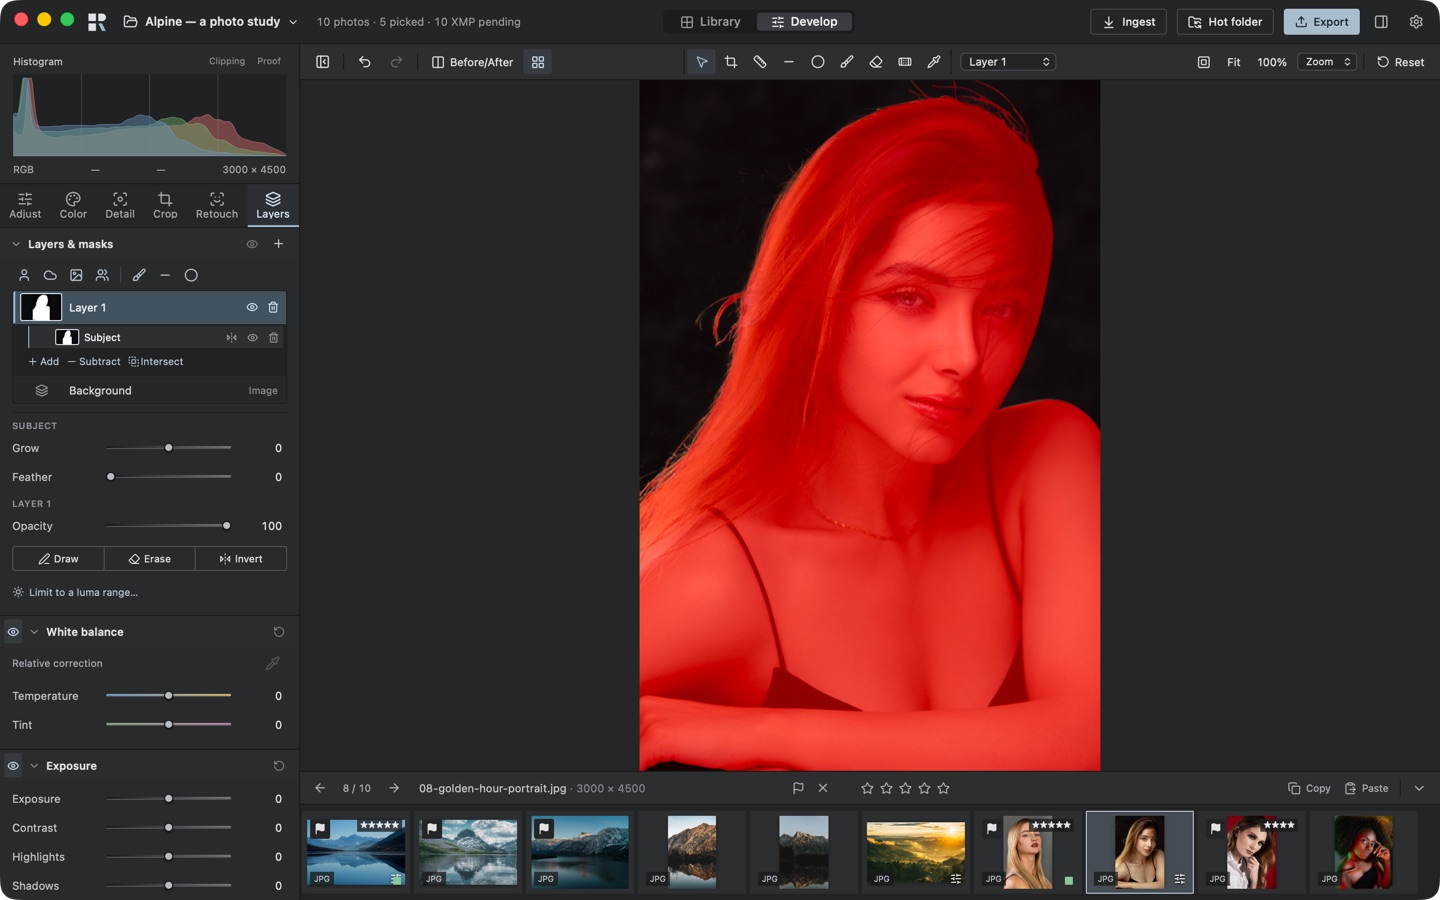
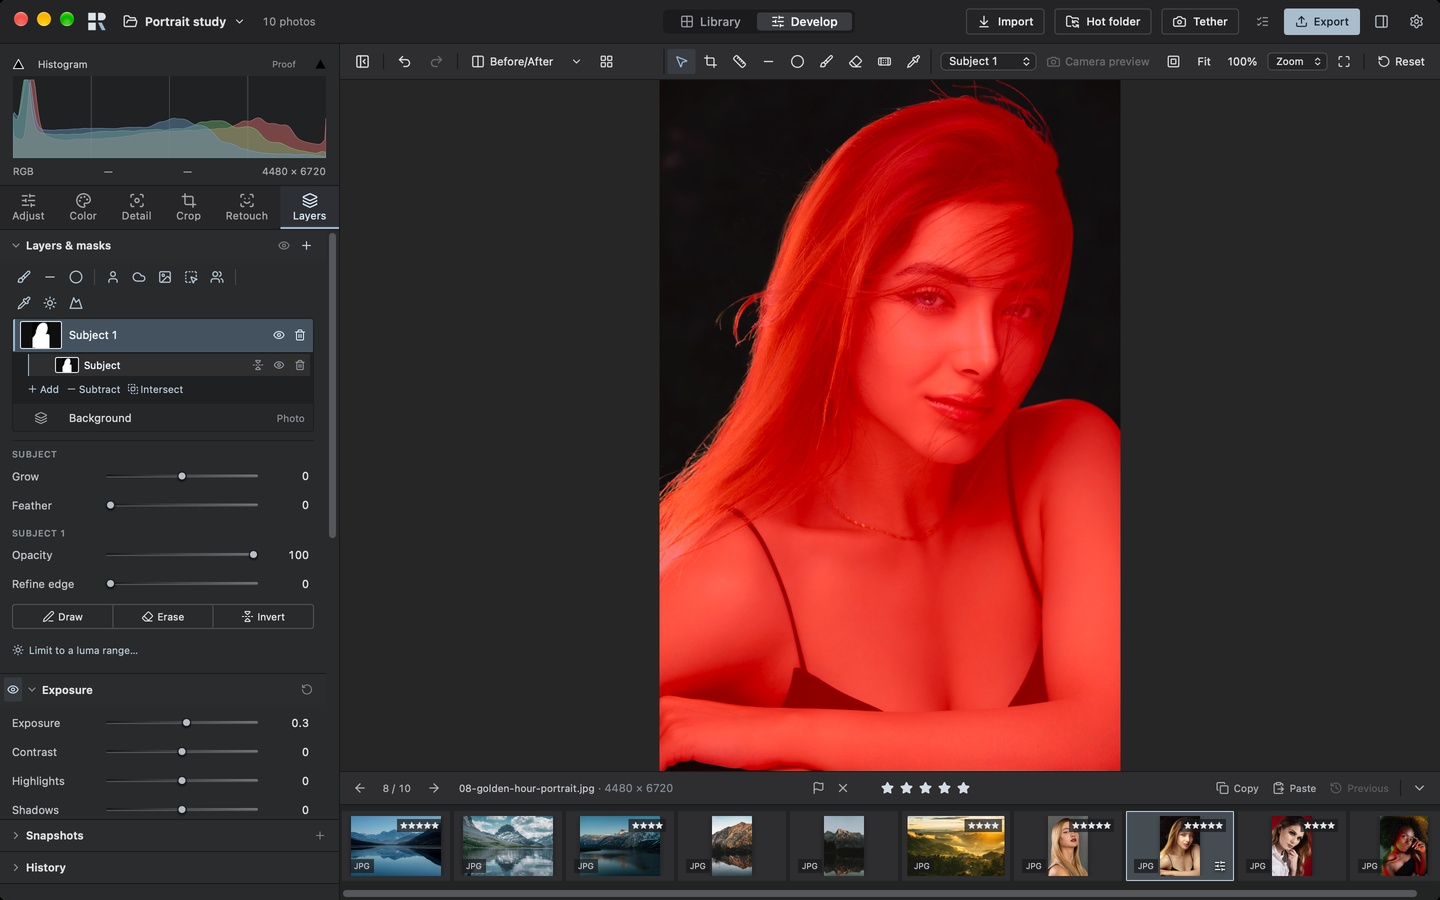
docs(readme): new screenshots of the current app and a docked-filmstrip image
Recapture every README image on 0.1.0-alpha.16 + main dbd2b4eb (QA build,
genuine window captures): develop, library, colour, masks, multi view,
relight, retouch and export, plus a new Develop capture with the filmstrip
docked beside the photo. CREDITS.md names the capture date, build and
photographs; alt texts follow the new content. README adds Capture One layer
import, Lightroom Point Color and Guided Upright import (#855, #856, #860,
#863), per-layer Color editor ranges and Empty Trash to the computer's
Trash (#845).

Changelog: none

diff --git a/README.md b/README.md
@@ -28,7 +28,7 @@
 
 <p align="center">
   <a href="docs/images/readme-develop.jpg">
-    <img src="docs/images/readme-develop.jpg" alt="Rawtonic Develop: a Dolomites landscape in the workspace, with layers, tone controls, histogram and filmstrip" width="860">
+    <img src="docs/images/readme-develop.jpg" alt="Rawtonic Develop: a Dolomites landscape with sky and foreground layers, white balance and exposure controls, histogram and filmstrip" width="860">
   </a>
 </p>
 
@@ -110,14 +110,14 @@ Start a **project** for a portrait sitting, a wedding or a product shoot. **Inge
 
 Use a **catalog** for a growing photo collection. Imports copy into its own `Photos/year/date` folders by default; you can also keep photos in their existing folders. Albums organize photographs without moving them. Moved, renamed, added or deleted files outside Rawtonic? **Synchronize Folder** finds the changes, follows moved photos with their edits and lets you review everything before it is applied. The library menu can create a **portable copy** for another computer, make a **full verified backup**, or **restore a backup** into a new folder—including external originals and required edit resources.
 
-**Session Folders…** sets where a project's captures, selects and exports go, inside the project or on another drive. **Find Duplicates** lists photos whose files hold identical image data, even under other names, and moves only the ones you mark to the Trash; visually similar photos are not found. **Export as Catalog…** takes a job to another computer, and **Import from Catalog…** brings the edits made there back, with a review first and one Undo step.
+**Session Folders…** sets where a project's captures, selects and exports go, inside the project or on another drive. **Find Duplicates** lists photos whose files hold identical image data, even under other names, and moves only the ones you mark to the Trash; visually similar photos are not found. **Empty Trash** on a session's or catalog's Trash folder moves its contents to the computer's Trash, with Undo; deleting permanently is a separate, explicit step. **Export as Catalog…** takes a job to another computer, and **Import from Catalog…** brings the edits made there back, with a review first and one Undo step.
 
-Already have a Lightroom Classic catalog or a Capture One session or catalog? Rawtonic can import it, with ratings, labels, keywords, albums, smart collections, virtual copies, snapshots, stacks (Lightroom) and translated edits.
+Already have a Lightroom Classic catalog or a Capture One session or catalog? Rawtonic can import it, with ratings, labels, keywords, albums, smart collections, virtual copies, snapshots, stacks (Lightroom) and translated edits. Capture One's local adjustment layers come along: gradients, filled masks and Luma Ranges as editable masks, brush, colour range and AI masks as fixed bitmaps. Lightroom catalog imports keep Point Color (also on masks) and Guided Upright with its guide lines.
 
 ### 2 · Find the keepers
 
 <p align="center">
-  <a href="docs/images/readme-library.jpg"><img src="docs/images/readme-library.jpg" alt="Library workspace filtered by a Sony camera search, with landscapes, cats, ratings and picks" width="860"></a>
+  <a href="docs/images/readme-library.jpg"><img src="docs/images/readme-library.jpg" alt="Library workspace showing the album Best of the year filtered by a Sony camera search: landscapes and cats with ratings and picks" width="860"></a>
 </p>
 
 The **Library** shows the whole shoot. Rate with 1–5, pick and reject with P and X, add colour labels, then filter down to the frames that matter. Press E or Space to see a photograph large in the **loupe**, with its keywords and metadata beside it; G goes back to the grid. A double-click (or D) opens it in Develop. Stepping through a series shows the next photo at once, from its camera JPEG. **Stacks** group a burst or bracket under one top photo (⌘/Ctrl+G; S collapses), and **Auto-Stack** builds them from the camera's burst and bracket data or from the time between shots. **Check eyes…** suggests which faces have closed eyes; it only suggests, and nothing is rated or rejected for you. Group keepers into albums and add keywords, captions and copyright while you are at it. Everything is written to standard XMP sidecars, so other software sees your ratings too.
@@ -126,6 +126,11 @@ The **Library** shows the whole shoot. Rate with 1–5, pick and reject with P a
 
 The **Develop** room gives the photograph the space: a filmstrip (under the photo, or docked beside it as a vertical grid with its own quick filter), a histogram and compact tool tabs. Work from the overall light and colour down to the details, compare with **Before/After** (Y), line up a series side by side in the **multi view** (N) and edit them all at once, see the photograph alone in **full screen** (F, also from the Library; I shows its facts), step back through **History** (⌥/Alt-click a tool group's name resets that group), copy settings across a series and save your own presets. Drag a slider to explore, move the pointer away from it while dragging for a finer drag, step it with the arrow keys, or type a number to be exact. A **second window** (Window ▸ Second Window, ⇧F) shows the photo live on another display, with its own zoom and a lock that keeps one photo while you move on. The **Profile** browser shows the open photo with every camera profile and look; hover to preview, click to apply. **Match Light** gives a series the exposure and white balance that make it look lit like a reference photo. **Develop defaults** set what unedited photos start with — globally, per camera model or per single camera body — and Reset goes back to them.
 
+<p align="center">
+  <a href="docs/images/readme-filmstrip.jpg"><img src="docs/images/readme-filmstrip.jpg" alt="Develop with the filmstrip docked to the right of the photo as a two-column grid with its quick filter, a cat photograph open" width="860"></a>
+  <br><sub>The filmstrip docked beside the photo (View ▸ Panels): a vertical grid with its own quick filter, leaving the photo the full height.</sub>
+</p>
+
 <table>
 <tr>
 <td width="50%" valign="top">
@@ -133,18 +138,18 @@ The **Develop** room gives the photograph the space: a filmstrip (under the phot
 <br><b>Colour.</b> White balance from the RAW, a colour editor, colour grading for shadows, midtones and highlights, black-and-white mixing and your own camera profiles or LUTs.
 </td>
 <td width="50%" valign="top">
-<a href="docs/images/readme-masks.jpg"><img src="docs/images/readme-masks.jpg" alt="A subject mask on a portrait shown as a red overlay, loose hair strands included"></a>
-<br><b>Local adjustments.</b> Brush, linear and radial masks, colour and luminance ranges, and one-click masks for the subject, sky, background, depth or people.
+<a href="docs/images/readme-masks.jpg"><img src="docs/images/readme-masks.jpg" alt="A one-click subject mask on a portrait shown as a red overlay, loose hair strands included"></a>
+<br><b>Local adjustments.</b> Brush, linear and radial masks, colour and luminance ranges, and one-click masks for the subject, sky, background, depth or people. Each layer can also hold its own Color editor ranges.
 </td>
 </tr>
 <tr>
 <td width="50%" valign="top">
-<a href="docs/images/readme-multiview.jpg"><img src="docs/images/readme-multiview.jpg" alt="Multi view: eleven photographs (landscapes, cats and a still life), with Edit all selected enabled"></a>
+<a href="docs/images/readme-multiview.jpg"><img src="docs/images/readme-multiview.jpg" alt="Multi view: eleven photographs (landscapes, cats and a still life) with orange frames, Edit all selected enabled"></a>
 <br><b>Multi view.</b> Compare up to twelve selected photographs side by side, with a reference photo and a locked zoom, and edit them all at once.
 </td>
 <td width="50%" valign="top">
-<a href="docs/images/readme-relight.jpg"><img src="docs/images/readme-relight.jpg" alt="Relight in a before/after split: left the portrait's original warm light, right a new cool light from the other side"></a>
-<br><b>Relight</b> <i>(experimental)</i>. Light a photograph again after the shoot. Before/after split: on the left the original warm light, on the right a new cool light from the other side with the original turned down.
+<a href="docs/images/readme-relight.jpg"><img src="docs/images/readme-relight.jpg" alt="Relight in a before/after split: left the portrait's original light, right the Side light pattern added from the right, its light guide on the face"></a>
+<br><b>Relight</b> <i>(experimental)</i>. Light a photograph again after the shoot. Before/after split: on the left the original light, on the right a side light added from the right with one click on a light pattern.
 </td>
 </tr>
 </table>

diff --git a/docs/images/CREDITS.md b/docs/images/CREDITS.md
@@ -2,9 +2,11 @@
 
 The README images are genuine window captures of Rawtonic on macOS. Their photographic content has separate licenses from the repository’s software. The photographers do not endorse Rawtonic.
 
-## Alpha.7 captures — pixls.us PlayRaw
+## November 17, 2026 captures — pixls.us PlayRaw
 
-`readme-develop.jpg`, `readme-library.jpg`, `readme-color.jpg` and `readme-multiview.jpg` are unchanged copies of `shot-develop.jpg`, `shot-library.jpg`, `shot-grading.jpg` and `shot-multiview.jpg` from the [website](https://github.com/rawtonic-app/website/tree/929d473/site/assets), captured on October 26, 2026 with 0.1.0-alpha.7. The photographs were developed in Rawtonic; the website captures were cropped and scaled, with nothing painted or retouched afterwards. These four screenshots are adaptations shared under [CC BY-SA 4.0](https://creativecommons.org/licenses/by-sa/4.0/), as documented in the [website credits](https://github.com/rawtonic-app/website/blob/929d473/CREDITS.md). Their photographs, including filmstrip thumbnails, are credited below; display filenames are chosen for the demo. The source RAW files are not included.
+`readme-develop.jpg`, `readme-library.jpg`, `readme-color.jpg`, `readme-multiview.jpg` and `readme-filmstrip.jpg` were captured on November 17, 2026 with 0.1.0-alpha.16 plus the changes merged up to commit `dbd2b4eb` (a QA build of `main`), in a copy of the demo session used for the alpha.7 website captures. They are window captures made by the app itself at 2880 × 1800 backing pixels, cropped where noted and scaled to 1440 pixels wide, with nothing painted or retouched afterwards: `readme-library.jpg` is the top quarter of the window, `readme-color.jpg` a band through the Color grading panel and the photo, `readme-multiview.jpg` the window below its title bar with the side panels and filmstrip hidden. The photographs were developed in Rawtonic (the demo session's edits, unchanged); the filmstrip and multi view show only the eleven photographs of the session's album "Best of the year", listed below. These screenshots are adaptations shared under [CC BY-SA 4.0](https://creativecommons.org/licenses/by-sa/4.0/). Their photographs, including filmstrip thumbnails, are credited below; display filenames are chosen for the demo. The source RAW files are not included.
+
+`readme-develop.jpg` shows Dolomites_sunset.ARW, `readme-library.jpg` the four Sony photographs (Cat_in_the_brush, Dolomites_sunset, Kitten_in_plants, Mt_Cook), `readme-color.jpg` Chania_lighthouse.CR2, `readme-filmstrip.jpg` Cat_in_the_brush.ARW with the filmstrip docked on the right, and `readme-multiview.jpg` all eleven.
 
 | Name in the demo | Photographer (forum name) | Source | License as stated in the post |
 | :-- | :-- | :-- | :-- |
@@ -20,9 +22,9 @@ The README images are genuine window captures of Rawtonic on macOS. Their photog
 | Tea_time.RAF | Daniel (DanielLikesDT) | [Raw Tea Time Image](https://discuss.pixls.us/t/raw-tea-time-image/55066) | [CC BY-SA 4.0](https://creativecommons.org/licenses/by-sa/4.0/) |
 | Windmills.CR2 | Uli (Popanz) | [A fight against windmills or just a Play Raw?](https://discuss.pixls.us/t/a-fight-against-windmills-or-just-a-play-raw/48366) | [CC BY-SA 4.0](https://creativecommons.org/licenses/by-sa/4.0/) |
 
-## Retained captures — Pexels
+## November 17, 2026 captures — Pexels
 
-`readme-export.jpg` remains the 0.1.0-alpha.1 capture (October 11, 2026); `readme-masks.jpg`, `readme-retouch.jpg` and `readme-relight.jpg` remain the 0.1.0-alpha.2 captures (October 16, 2026). They were made in a disposable showcase session and retained because the alpha.7 website captures do not show the same mask, portrait retouch, relight or export-recipe views. The Relight screenshot shows the golden hour portrait with one added cool light from the right (intensity 100, colour #a8c8ff) and the original light at 30, in the before/after split at 50 %. They show JPEG photographs, not RAW comparison results. The retouch screenshot shows Rawtonic's automatic face retouch (Blemishes 40, Even skin 20, Dark circles 25) on the studio portrait as rendered by the app; the photographs themselves were not otherwise edited. The source photographs in these retained captures are used under the [Pexels license](https://www.pexels.com/license/); they are not covered by the repository's software license. The photographers do not endorse Rawtonic.
+`readme-masks.jpg`, `readme-retouch.jpg`, `readme-relight.jpg` and `readme-export.jpg` were captured on November 17, 2026 with the same build (0.1.0-alpha.16 plus the changes up to commit `dbd2b4eb`), in a new disposable session ("Portrait study") into which the ten Pexels photographs below were imported unchanged, as downloaded from the source links. They replace the alpha.1 and alpha.2 captures with the same views; full window captures at 2880 × 1800 backing pixels scaled to 1440 × 900, with nothing painted or retouched afterwards. The Masks screenshot shows a one-click Subject layer on the golden hour portrait (layer Exposure +0.3) with the mask overlay on. The Retouch screenshot shows Rawtonic's automatic face retouch (Blemishes 40, Even skin 20, Dark circles 25; the app reports 8 blemishes healed) on the studio portrait at 100 % zoom. The Relight screenshot shows the golden hour portrait with the Side light pattern added from the right, in the before/after split at 50 %. The Export screenshot shows the dialog over the studio portrait with three recipes ticked (High Quality, Fast (Web) and a Print TIFF recipe: TIFF, 16 bit, Adobe RGB). They show JPEG photographs, not RAW comparison results. The source photographs are used under the [Pexels license](https://www.pexels.com/license/); they are not covered by the repository's software license. The photographers do not endorse Rawtonic.
 
 | Photograph in the demo | Photographer                   | Source                                                                                                                                                            |
 | :--------------------- | :----------------------------- | :---------------------------------------------------------------------------------------------------------------------------------------------------------------- |
@@ -37,6 +39,6 @@ The README images are genuine window captures of Rawtonic on macOS. Their photog
 | Red backdrop           | Fher Garza                     | [Woman Wearing White Top](https://www.pexels.com/photo/woman-wearing-white-top-3610877/)                                                                          |
 | Colour light           | Abenezer Shewaga               | [Captivating Portrait of a Beautiful Ethiopian Woman](https://www.pexels.com/photo/captivating-portrait-of-a-beautiful-ethiopian-woman-31443956/)                 |
 
-The table above preserves the original Pexels demo credits. Names in the first column are display filenames chosen for the demo. The source links identify the original photographs and their authors. Source JPEGs, private photography and app configuration are not included in the repository. These retained screenshots were encoded as JPEGs for the README; their interface and photographic content were not composited or retouched after capture.
+Names in the first column describe the display filenames chosen for the demo (`01-alpine-reflections.jpg` … `10-colour-light.jpg`, in this order). The source links identify the original photographs and their authors. Source JPEGs, private photography and app configuration are not included in the repository. The screenshots were encoded as JPEGs for the README; their interface and photographic content were not composited or retouched after capture.
 
 The README masthead uses the Rawtonic logo from [`docs/brand`](../brand/README.md).
